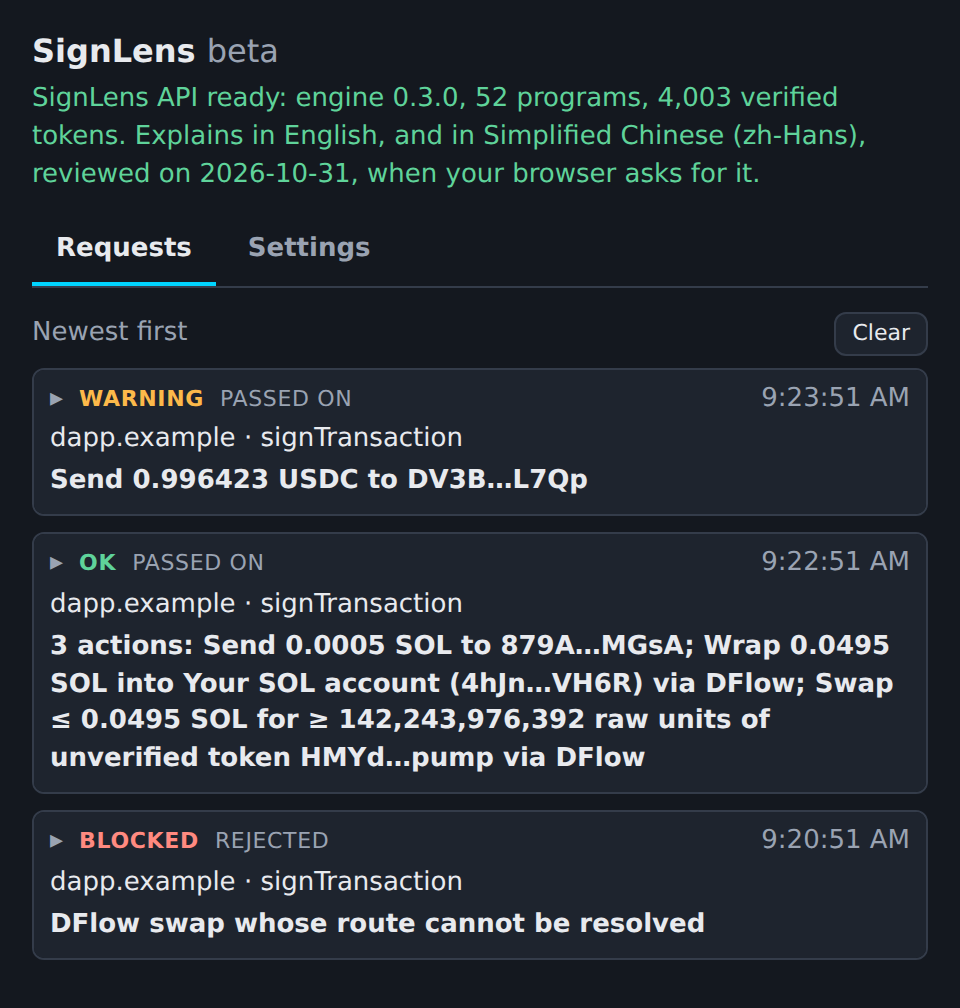
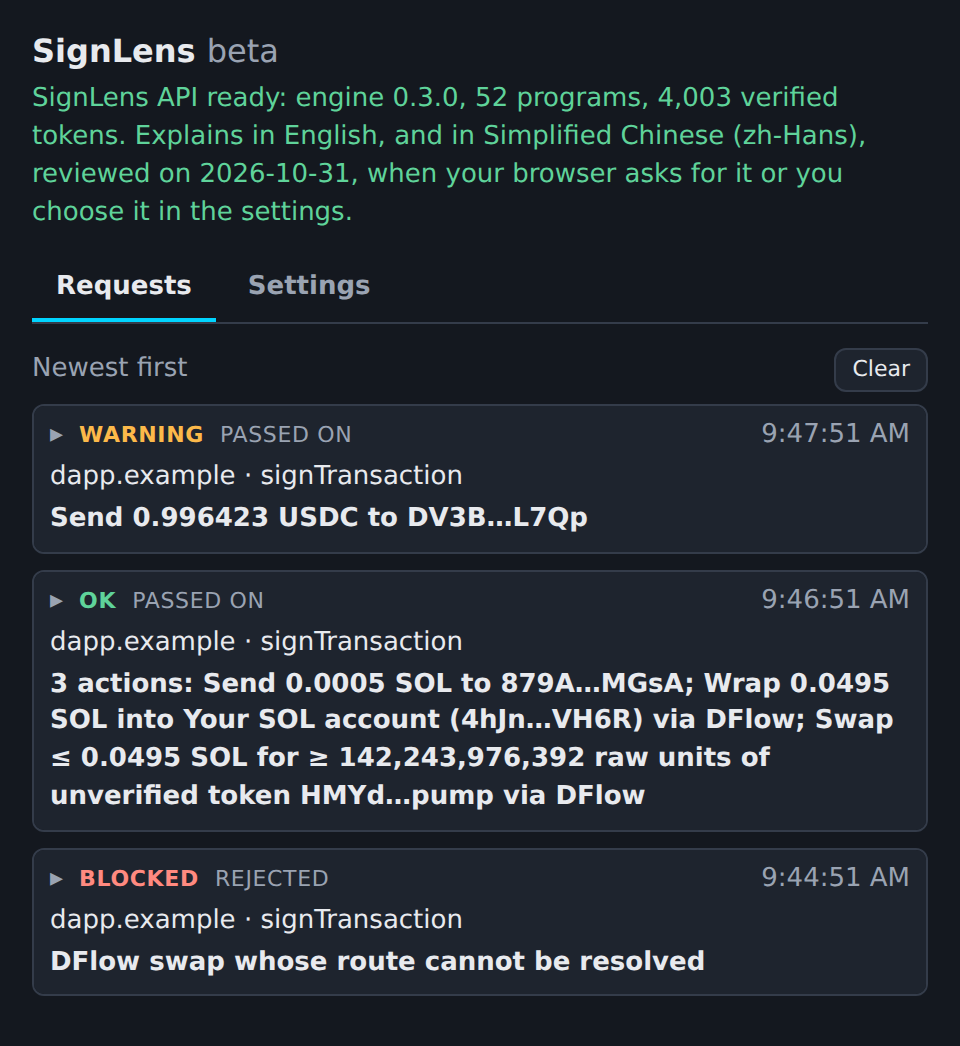
feat: say what 0.3.1's language setting does
SignLens 0.3.1 lets the reader choose the language, on the setup page and
at the top of the popup's settings, whatever the browser's languages. The
FAQ says so, and the install page names it among the settings. The
privacy page and the FAQ say what goes to the API: the language chosen,
if any, then the browser's, at most eight in all, as the extension's
worker sends them.

The popup screenshots are 0.3.2's, taken at twice the pixel density: its
status line now says the API explains in Chinese also when the settings
choose it, which makes it a line taller. The window screenshots came out
the same bytes and are left as they were.

Changed region(s): [[0.0312, 0.0308, 0.9688, 0.9534], [0.7812, 0.3075, 0.9688, 0.4306], [0.7812, 0.5228, 0.9688, 0.5843]]

diff --git a/src/pages/info.ts b/src/pages/info.ts
@@ -14,7 +14,7 @@ export function installPage(): Page {
 <h2>Use it</h2>
 <p>A new install opens a setup page in a tab of its own: add your wallet addresses there, so that explanations can say "you", and pin SignLens to the toolbar.</p>
 <p>In a dapp, choose <b>SignLens</b> when it asks you to connect a wallet, not your wallet itself. SignLens connects, in turn, to your own wallet in the same page; when the page has several, it asks you once which one, and keeps your choice. From then on every request opens the SignLens window first. Continue, and your wallet asks you as usual. If you turn off "Show the explanation and ask first" in the settings, only the requests SignLens would refuse open the window; the rest go straight on to your wallet.</p>
-<p>In the popup's settings you can change which of your wallets SignLens passes requests to, list your own addresses so explanations can say "you", keep an address book so transfers name the people you pay and <a href="/warnings/address-poisoning">lookalikes</a> stand out, and choose the Solana node SignLens asks for what a transaction refers to (the RPC).</p>
+<p>In the popup's settings you can choose the language SignLens and its explanations are in, change which of your wallets it passes requests to, list your own addresses so explanations can say "you", keep an address book so transfers name the people you pay and <a href="/warnings/address-poisoning">lookalikes</a> stand out, and choose the Solana node SignLens asks for what a transaction refers to (the RPC).</p>
 <p class="note">SignLens never asks for a seed phrase or a private key, and never signs anything. Anything that asks you for one, in SignLens's name or not, is a scam.</p>`;
     return {
         path: '/install',
@@ -27,10 +27,10 @@ export function installPage(): Page {
 
 export function privacyPage(): Page {
     const body = html`<h1>Privacy</h1>
-<p class="lead">What the SignLens extension and this site send, to whom, and what is kept. Last changed 1 November 2026.</p>
+<p class="lead">What the SignLens extension and this site send, to whom, and what is kept. Last changed 6 November 2026.</p>
 <h2>The extension</h2>
 <h3>What goes to the SignLens API</h3>
-<p>In this beta, SignLens's server computes the explanation. For each transaction a dapp asks you to sign, the extension sends the SignLens API: the transaction, the addresses its lookup tables load, the outcome of the simulation if it ran, at most eight of your addresses from the settings (in watch-only mode the watched one), so that the explanation can say "you"; the languages your browser asks for, so that it is worded in the first of them SignLens has; and at most 64 addresses from your address book, each with a stand-in for its name: its place in the list and a random tag drawn for each request, which says nothing of the name. The extension puts the names back before the window shows the explanation, so they never leave your browser. When account lookup is on and the explanation names accounts it would read, such as a multisig proposal and the transaction it stores or a DAO proposal and its options, it asks again with those accounts as your RPC returned them, at most twice. When token lookup is on and the explanation leaves tokens unnamed, it asks again with their symbols. It also asks again when you press "Try again" or "Show in English" in the window. This happens when the dapp asks, before the window opens, and also when "Show the explanation and ask first" is off and no window opens.</p>
+<p>In this beta, SignLens's server computes the explanation. For each transaction a dapp asks you to sign, the extension sends the SignLens API: the transaction, the addresses its lookup tables load, the outcome of the simulation if it ran, at most eight of your addresses from the settings (in watch-only mode the watched one), so that the explanation can say "you"; the language you chose in the settings, if any, then the languages your browser asks for, at most eight in all, so that it is worded in the first of them SignLens has; and at most 64 addresses from your address book, each with a stand-in for its name: its place in the list and a random tag drawn for each request, which says nothing of the name. The extension puts the names back before the window shows the explanation, so they never leave your browser. When account lookup is on and the explanation names accounts it would read, such as a multisig proposal and the transaction it stores or a DAO proposal and its options, it asks again with those accounts as your RPC returned them, at most twice. When token lookup is on and the explanation leaves tokens unnamed, it asks again with their symbols. It also asks again when you press "Try again" or "Show in English" in the window. This happens when the dapp asks, before the window opens, and also when "Show the explanation and ask first" is off and no window opens.</p>
 <p>For each request the API logs the time, how long it took, the verdict, the finding codes, the program names, the size and a SHA-256 hash of the transaction's message, and keeps nothing else. The hash cannot be turned back into the transaction, but once the transaction is on chain anyone can compute the same hash from it, so a log line can be matched to that transaction and its signer. Messages to sign never leave the extension.</p>
 <h3>Your IP address</h3>
 <p>Every request reaches the API through Cloudflare, which sees your IP address, as it does for any site it serves. The API uses the address only to count your requests against its limit, in memory and as a keyed hash, and logs it nowhere.</p>
@@ -53,7 +53,7 @@ export function privacyPage(): Page {
         title: 'Privacy | SignLens',
         description:
             'What the SignLens extension sends to its API, your RPC and the token list, what is kept, and what signlens.dev counts.',
-        updated: '2026-11-01',
+        updated: '2026-11-06',
         body,
     };
 }

diff --git a/src/pages/about.ts b/src/pages/about.ts
@@ -16,7 +16,7 @@ export function howItWorksPage(): Page {
 <li><b>The window opens before your wallet does.</b> The verdict and a one-line summary at the top, or, when the transaction does several things, how many, with each on a line of its own; the findings; what the transaction does to you, as a list; each instruction with its fields; and the engine's full text.</li>
 <li><b>You decide.</b> Reject, and the dapp is told you refused. Continue, and the exact bytes SignLens explained go to your wallet, which asks you as usual. A page that changes its transaction afterwards changes nothing.</li>
 </ol>
-<p class="shot"><picture><source media="(prefers-color-scheme: dark)" srcset="/images/popup-dark.webp"><img src="/images/popup-light.webp" width="360" height="378" alt="The SignLens popup: the API ready, explaining in English and Simplified Chinese, and three requests, a warning passed on, an OK swap passed on, and a blocked swap rejected"></picture></p>
+<p class="shot"><picture><source media="(prefers-color-scheme: dark)" srcset="/images/popup-dark.webp"><img src="/images/popup-light.webp" width="360" height="392" alt="The SignLens popup: the API ready, explaining in English and Simplified Chinese, and three requests, a warning passed on, an OK swap passed on, and a blocked swap rejected"></picture></p>
 <h2 id="verdict">The verdict</h2>
 <ul>
 <li><b>OK</b>: nothing beyond notes.</li>
@@ -63,7 +63,7 @@ export function howItWorksPage(): Page {
         title: 'How SignLens works: clear signing for any Solana wallet',
         description:
             'Dapps connect SignLens like a wallet, but it holds no keys: it explains each request in its own window, then passes it unchanged to your real wallet.',
-        updated: '2026-11-01',
+        updated: '2026-11-06',
         body,
     };
 }
@@ -223,13 +223,13 @@ const FAQ: [string, string | Html][] = [
     ],
     [
         'What does SignLens send to its server?',
-        html`In this beta, the unsigned transaction, the addresses its lookup tables load, the simulation result, the accounts the explanation asks for as your RPC returned them, your addresses from the settings, your browser's languages, and your address book's addresses, each with a random stand-in for its name: the names stay in your browser. The server logs the verdict, the finding codes and a hash of the transaction, not the transaction itself. <a href="/privacy">The privacy page</a> has the details.`,
+        html`In this beta, the unsigned transaction, the addresses its lookup tables load, the simulation result, the accounts the explanation asks for as your RPC returned them, your addresses from the settings, your languages (the one you chose in the settings, if any, then your browser's), and your address book's addresses, each with a random stand-in for its name: the names stay in your browser. The server logs the verdict, the finding codes and a hash of the transaction, not the transaction itself. <a href="/privacy">The privacy page</a> has the details.`,
     ],
     ['Does it cost anything?', 'No. SignLens is free, and the extension is open source under the Apache 2.0 licence.'],
     ['Does it work on my phone?', 'No. It is an extension for desktop Chrome, Brave, Edge and Firefox.'],
     [
         'Is SignLens in my language?',
-        'The extension and its explanations are in English and in Simplified Chinese, reviewed in full by a native speaker. SignLens uses Chinese when your browser asks for it, and English otherwise; an explanation in Chinese has a "Show in English" button, to read it against the English.',
+        'The extension and its explanations are in English and in Simplified Chinese, reviewed in full by a native speaker. SignLens uses Chinese when your browser asks for it, and English otherwise, unless you choose one under "Language" on the setup page or at the top of the settings in the popup. An explanation in Chinese has a "Show in English" button, to read it against the English.',
     ],
     ['Which chains?', 'Solana mainnet today. SignLens is built so that other chains can be added, and Ethereum is next.'],
     [
@@ -258,7 +258,7 @@ ${FAQ.map(([q, a]) => html`<h2>${q}</h2><p>${a}</p>`)}`;
         title: 'SignLens FAQ: clear signing for Solana, explained',
         description:
             'Is SignLens a wallet? Which wallets does it work with? What is blind signing? What does it send to its server? Answers about SignLens.',
-        updated: '2026-11-01',
+        updated: '2026-11-06',
         body,
     };
 }
